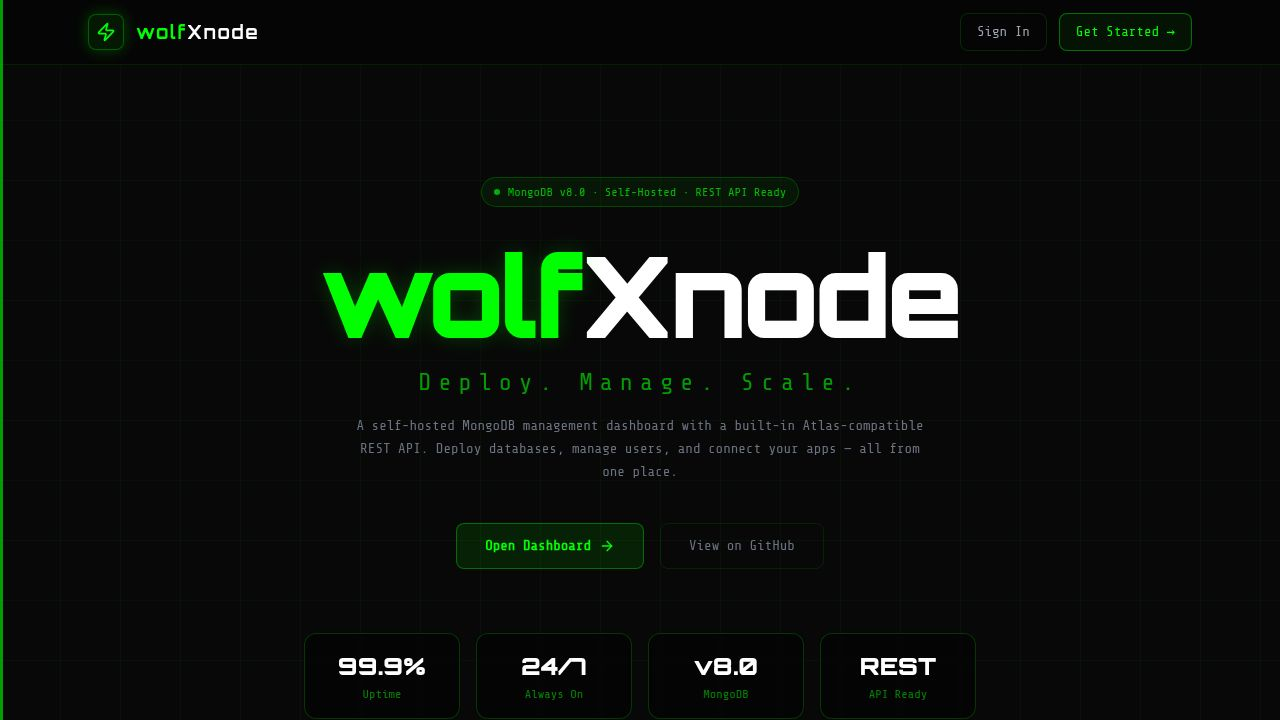
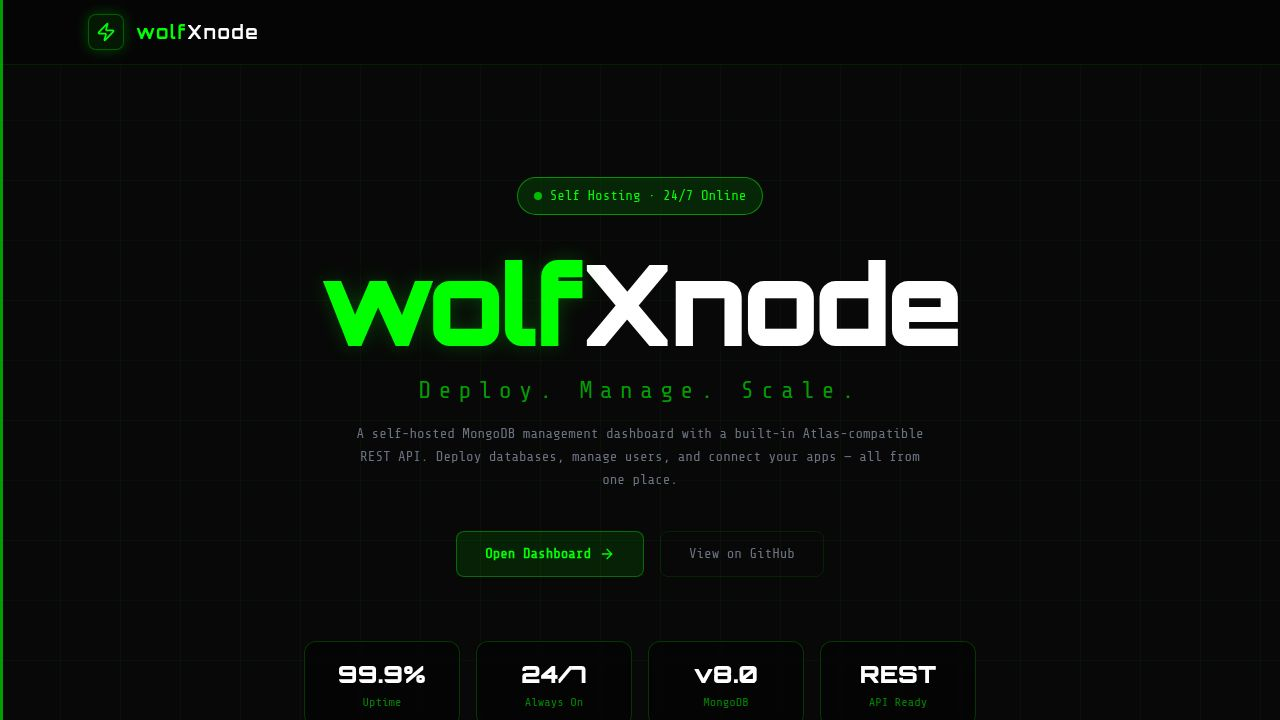
Update landing page to show self-hosting information and remove sign-in buttons
Modify client/src/pages/Landing.tsx to change the badge text to "Self Hosting · 24/7 Online", increase its visibility, and remove the "Sign In" and "Get Started" buttons. Update .agents/agent_assets_metadata.toml with the new image title.

Replit-Commit-Author: Agent
Replit-Commit-Session-Id: a8a65407-099b-4633-b1b8-a2b3e33364f0
Replit-Commit-Checkpoint-Type: full_checkpoint
Replit-Commit-Event-Id: 7067433d-104a-44b1-9699-195eb0a03813
Replit-Commit-Screenshot-Url: https://storage.googleapis.com/screenshot-production-us-central1/e9a2ee88-d6b4-4faf-adf1-8de49c6dc59b/a8a65407-099b-4633-b1b8-a2b3e33364f0/wXvRhgc
Replit-Helium-Checkpoint-Created: true

diff --git a/client/src/pages/Landing.tsx b/client/src/pages/Landing.tsx
@@ -63,32 +63,17 @@ export default function Landing() {
               <span className="text-primary">wolf</span><span className="text-white">Xnode</span>
             </span>
           </div>
-          <div className="flex items-center gap-3">
-            <Link
-              to="/login"
-              className="px-4 py-2 text-sm font-mono text-gray-400 hover:text-primary border rounded-lg transition-all"
-              style={{ borderColor: 'hsl(120 100% 50% / 0.15)', background: 'transparent' }}
-            >
-              Sign In
-            </Link>
-            <Link
-              to="/login"
-              className="px-4 py-2 text-sm font-mono text-primary border rounded-lg transition-all hover:bg-primary/10"
-              style={{ borderColor: 'hsl(120 100% 50% / 0.4)', background: 'hsl(120 100% 50% / 0.06)' }}
-            >
-              Get Started →
-            </Link>
-          </div>
+          <div />
         </div>
       </nav>
 
       {/* ── Hero ── */}
       <section className="relative z-10 pt-28 pb-20 px-6 text-center">
         <div className="max-w-4xl mx-auto">
-          <div className="inline-flex items-center gap-2 px-3 py-1.5 rounded-full text-xs font-mono mb-8"
-            style={{ background: 'hsl(120 100% 50% / 0.06)', border: '1px solid hsl(120 100% 50% / 0.2)', color: 'hsl(120 100% 50% / 0.7)' }}>
-            <span className="w-1.5 h-1.5 rounded-full bg-primary animate-pulse inline-block" />
-            MongoDB v8.0 · Self-Hosted · REST API Ready
+          <div className="inline-flex items-center gap-2 px-4 py-2 rounded-full text-sm font-mono mb-8"
+            style={{ background: 'hsl(120 100% 50% / 0.12)', border: '1px solid hsl(120 100% 50% / 0.5)', color: 'hsl(120 100% 50% / 1)' }}>
+            <span className="w-2 h-2 rounded-full bg-primary animate-pulse inline-block" />
+            Self Hosting · 24/7 Online
           </div>
 
           <h1 className="font-display font-black tracking-tight mb-4" style={{ fontSize: 'clamp(3rem, 10vw, 7rem)', lineHeight: 1 }}>
